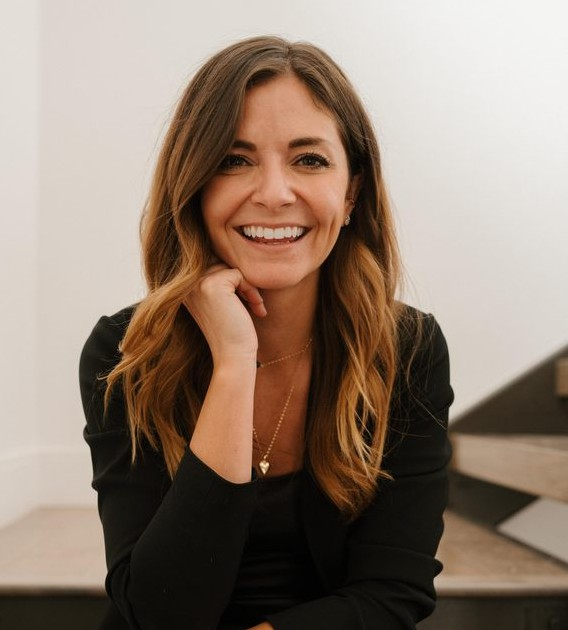
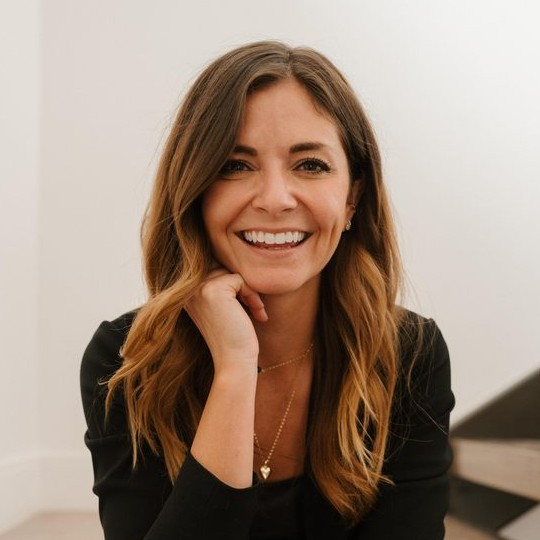
fix(someday): tighter headshot crop + thumbnails on all 3 published-work cards
Re-cropped Sara's headshot to a tighter, balanced square (face-forward, less dead headroom). Added thumbnails to all three content cards: Here's the Deal cover (Book), Dealmakers logo (YouTube), Deal Academy mark (Course) — uniform 44px object-fit:contain. Applied to template.js (worker) + public/ss/index.html. Verified both magnet forms E2E (chapter + post-mortem -> 200 ok).

diff --git a/public/ss/index.html b/public/ss/index.html
@@ -1048,17 +1048,19 @@
 
               <div class="content-strip">
                 <a class="content-card" href="https://www.amazon.com/Heres-Deal-Insiders-Business-Acquisitions-ebook/dp/B0GX34JRQW/" target="_blank" rel="noopener">
+                  <img src="assets/heres-the-deal-cover.jpg" alt="Here's the Deal book cover" style="height:44px;width:auto;object-fit:contain;display:block;margin-bottom:10px;">
                   <div class="content-card-kind">Book</div>
                   <div class="content-card-title">Here's the Deal</div>
                   <div class="content-card-meta">Accounting firm M&amp;A, 2026</div>
                 </a>
                 <a class="content-card" href="https://www.youtube.com/channel/UCnLI19Jb9TJ88WuMKUJZRiw" target="_blank" rel="noopener">
-                  <img src="assets/yt-dealmakers-logo.jpg" alt="Sara Sharp's Dealmakers" style="width:36px;height:36px;border-radius:6px;display:block;margin-bottom:10px;">
+                  <img src="assets/yt-dealmakers-logo.jpg" alt="Sara Sharp's Dealmakers" style="height:44px;width:auto;object-fit:contain;display:block;margin-bottom:10px;">
                   <div class="content-card-kind">YouTube</div>
                   <div class="content-card-title">Sara Sharp's Dealmakers</div>
                   <div class="content-card-meta">Weekly conversations on selling a firm</div>
                 </a>
                 <a class="content-card" href="https://dealacademy.org/" target="_blank" rel="noopener">
+                  <img src="assets/da-academy-logo.png" alt="Deal Academy" style="height:44px;width:auto;object-fit:contain;display:block;margin-bottom:10px;">
                   <div class="content-card-kind">Course</div>
                   <div class="content-card-title">Deal Academy</div>
                   <div class="content-card-meta">dealacademy.org</div>
